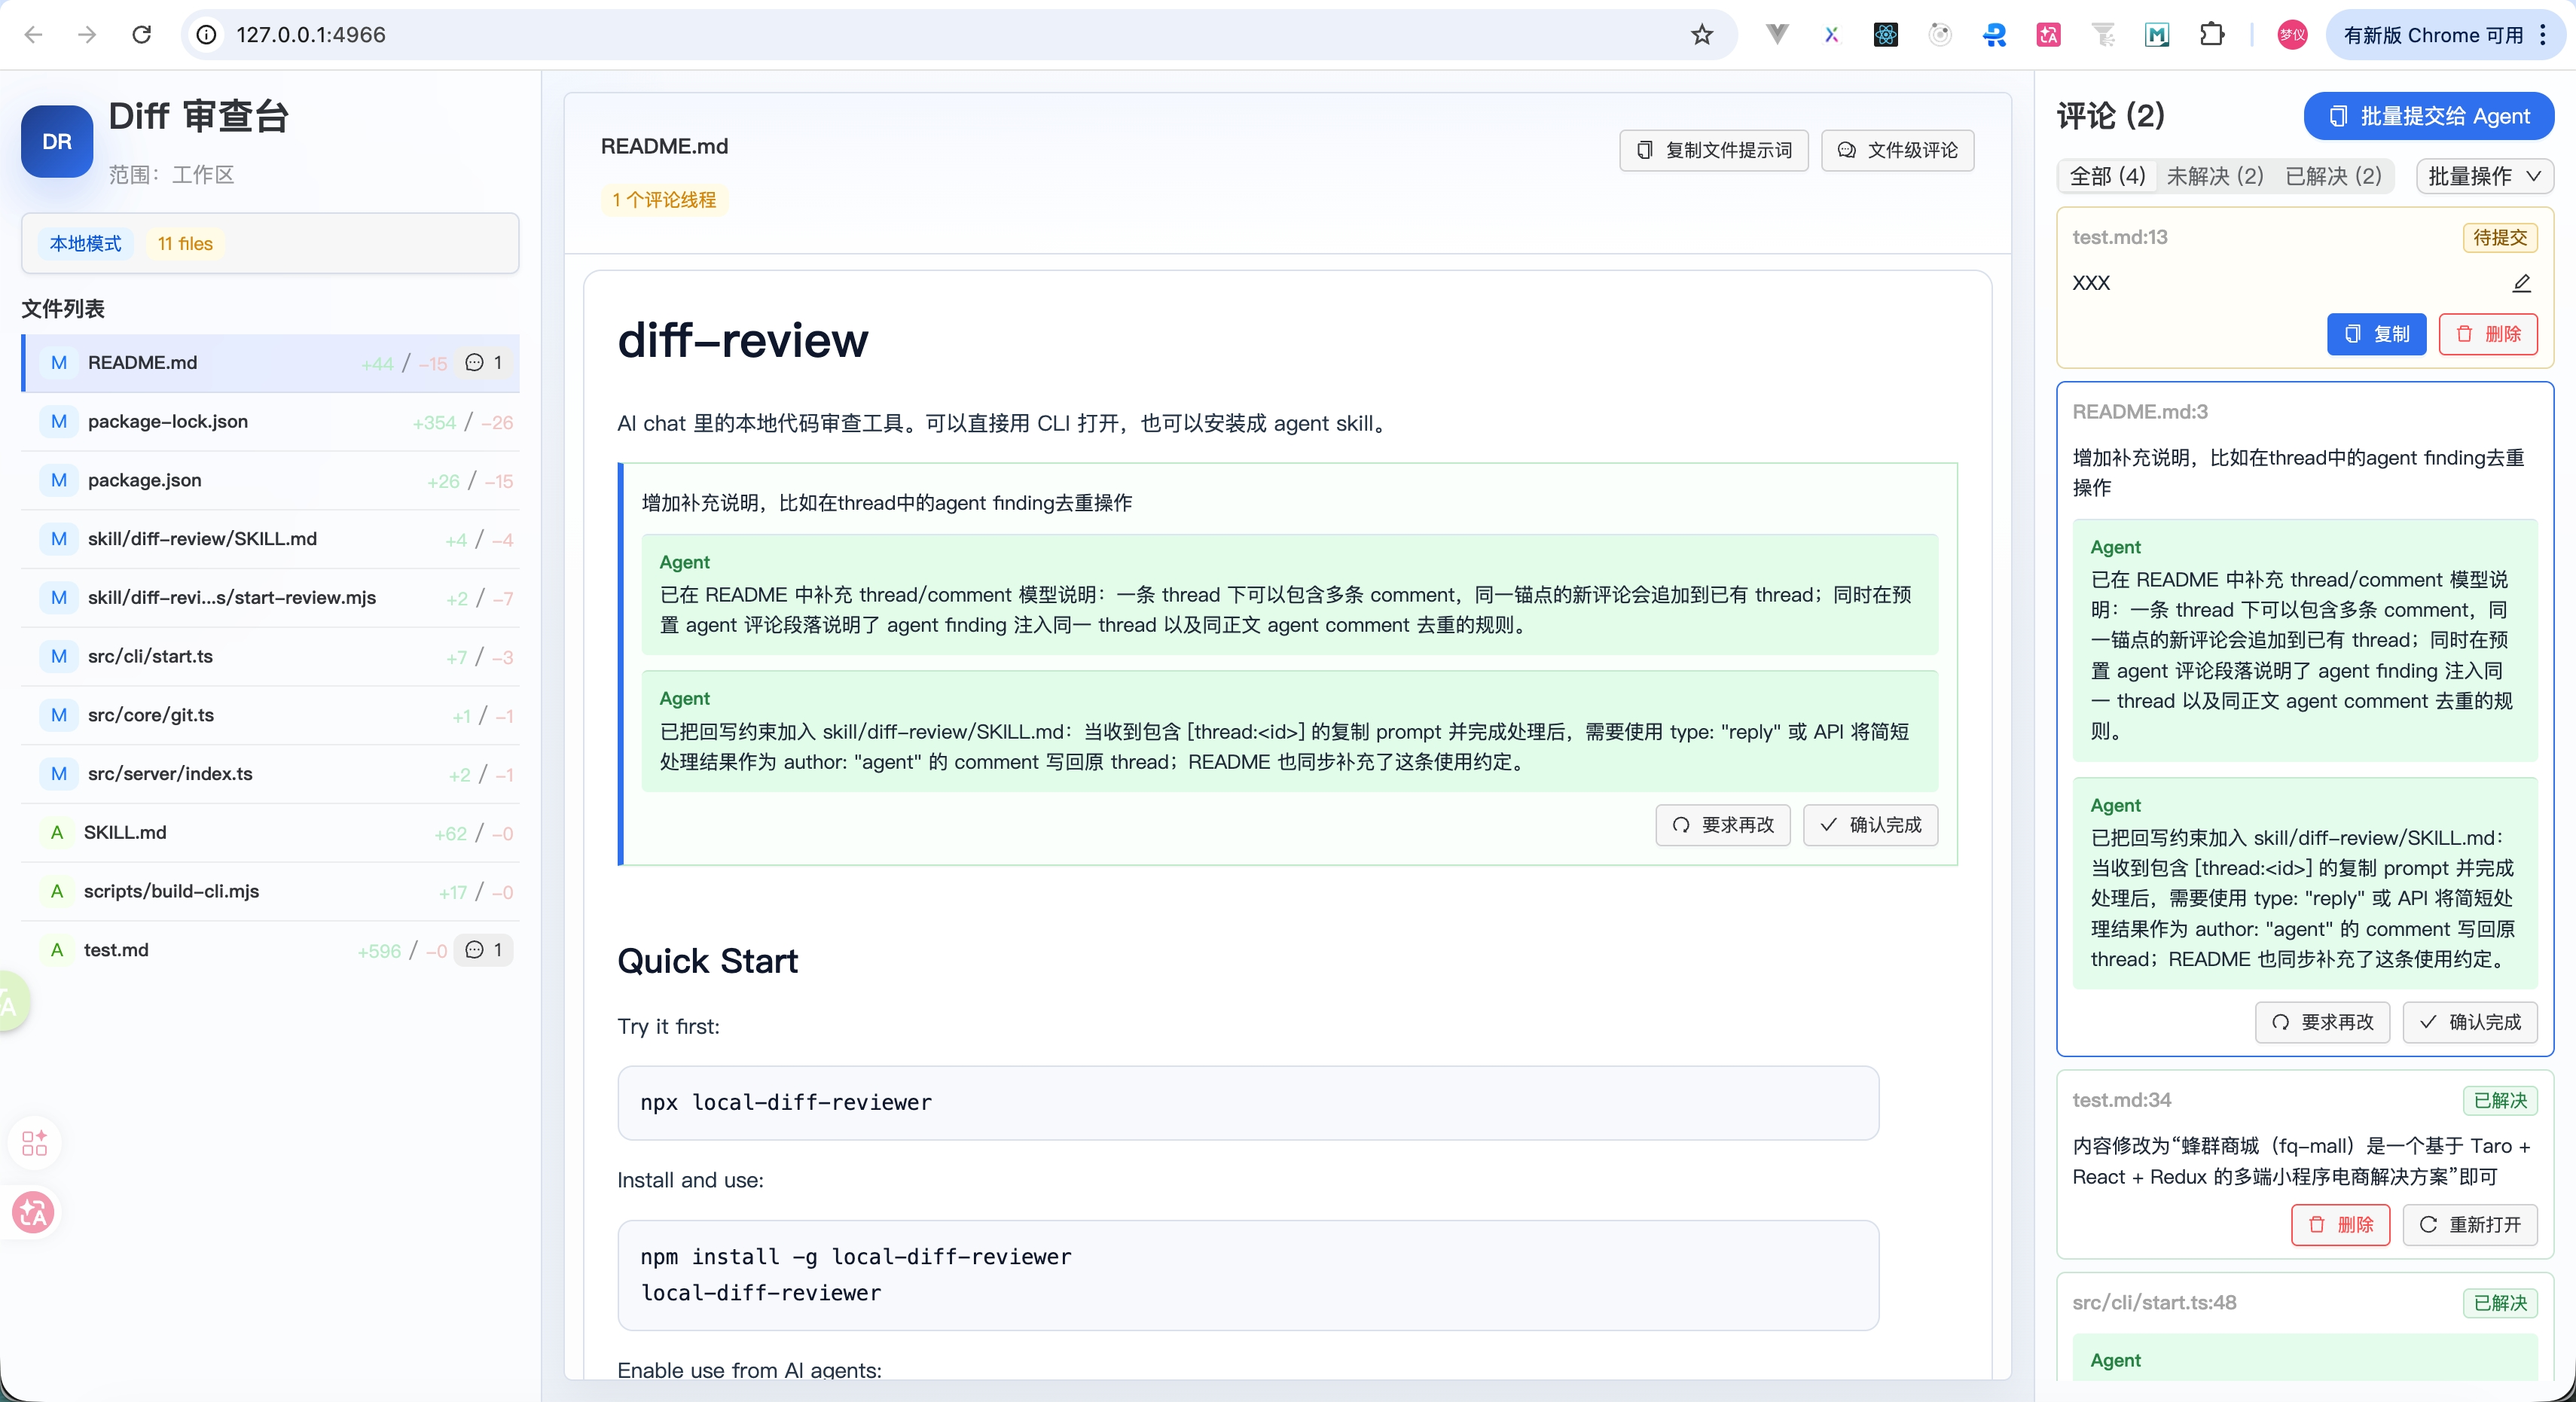
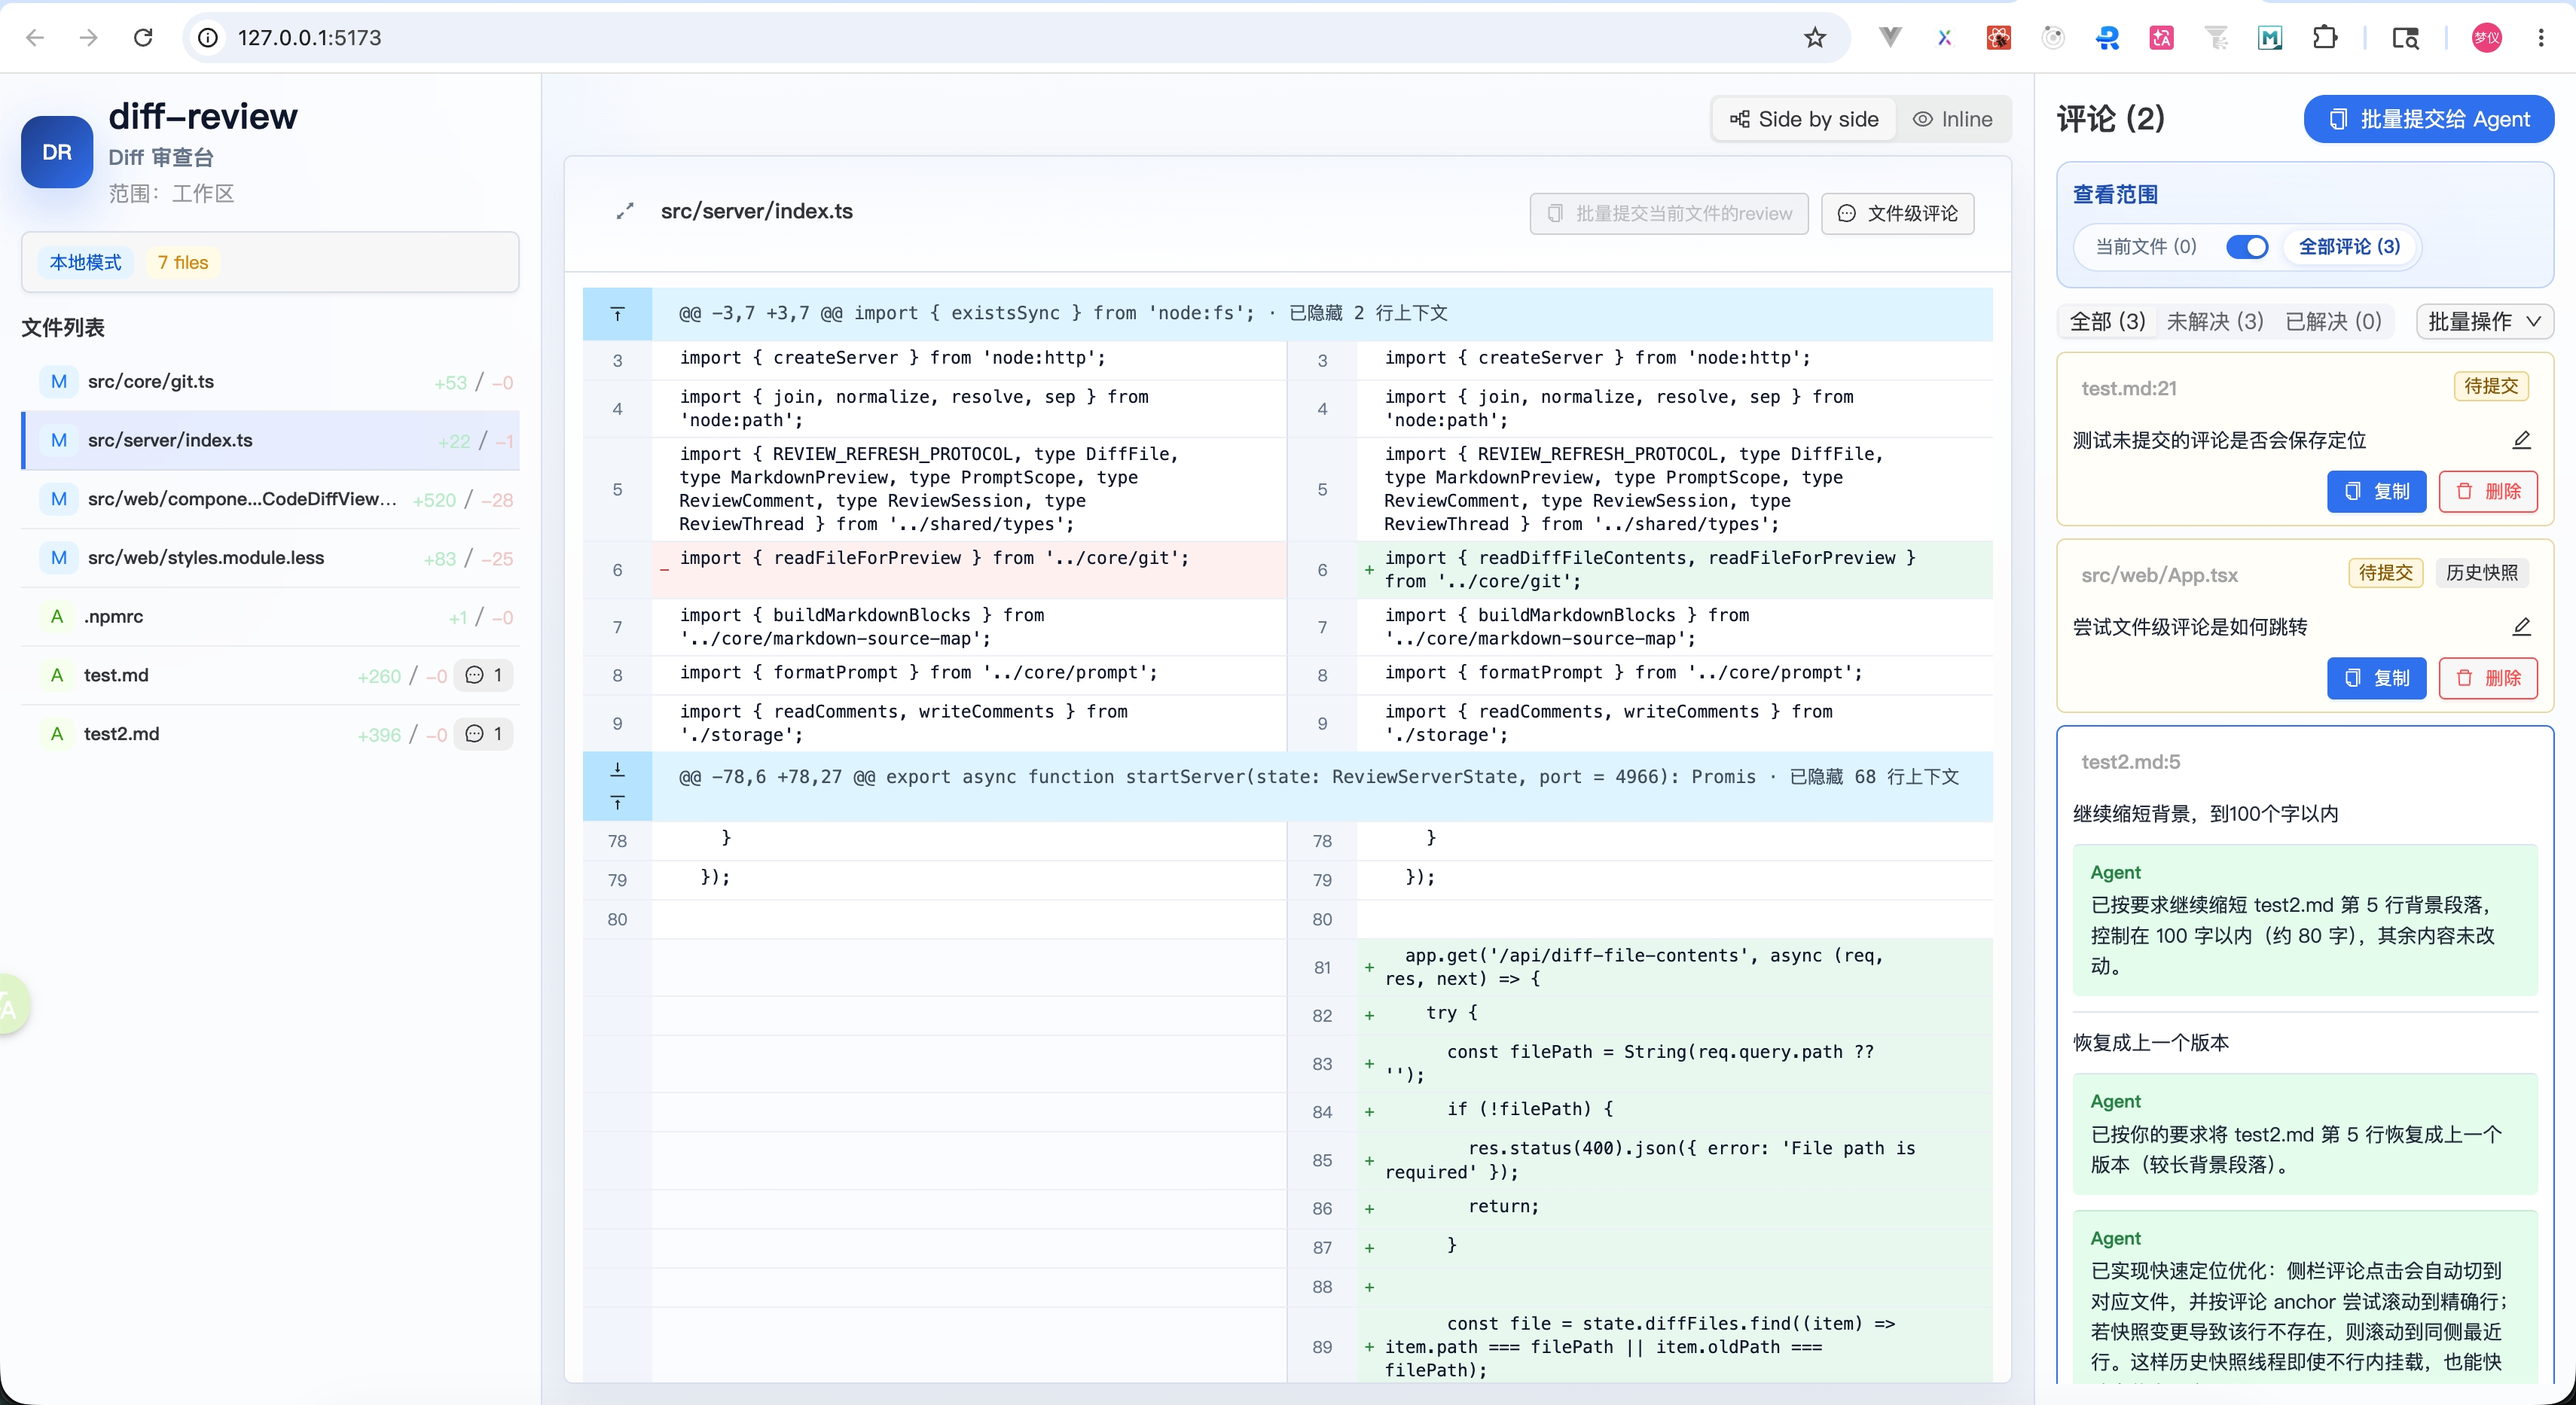
docs(readme): refresh hosted UI screenshot

diff --git a/README.md b/README.md
@@ -1,6 +1,6 @@
 # diff-review
 
-![Diff 审查台界面截图](https://cdn.jsdelivr.net/npm/local-diff-reviewer@latest/docs/images/diff-review-ui.jpg)
+![Diff 审查台界面截图](https://raw.githubusercontent.com/Mone-Lee/diff-review/master/docs/images/diff-review-ui.jpg)
 
 AI chat 里的本地代码审查工具。可以直接用 CLI 打开，也可以安装成 agent skill。
 
